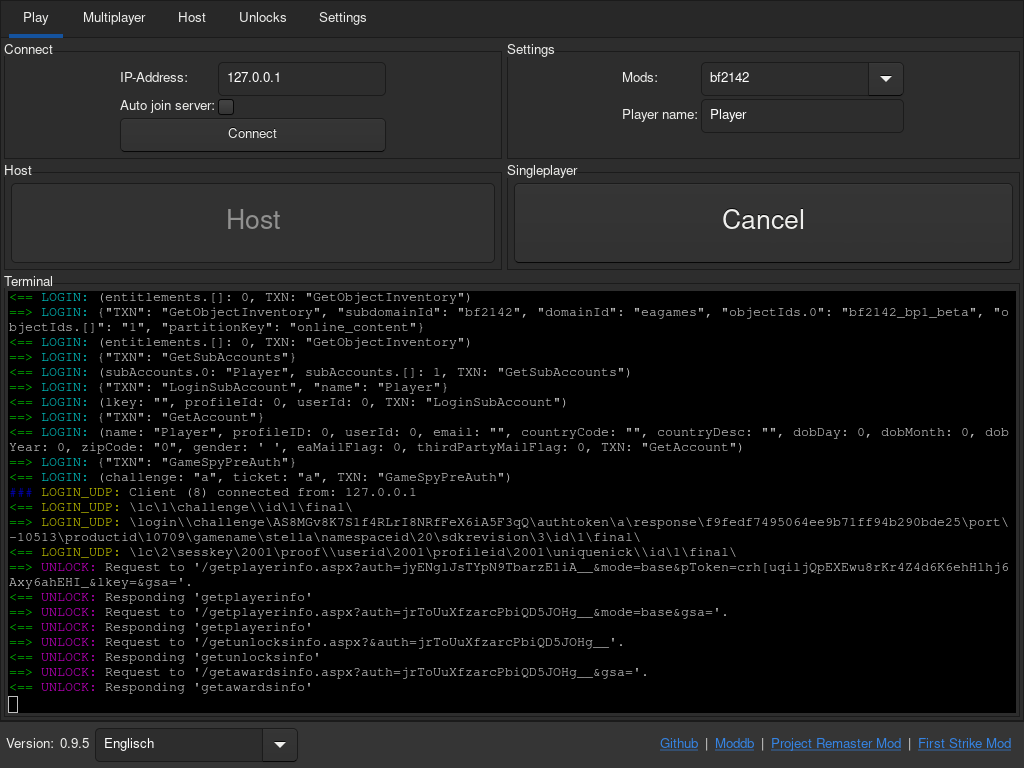
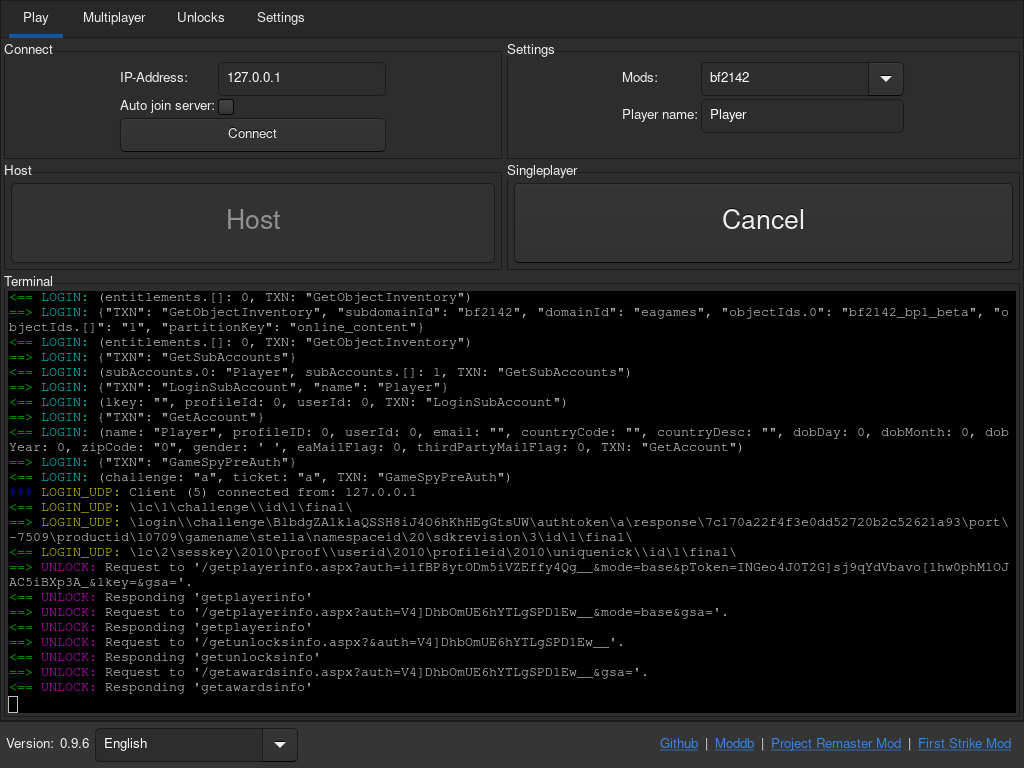
- Prepared version 0.9.6.

diff --git a/readme.md b/readme.md
@@ -10,8 +10,8 @@ Also the BF2142Unlocker has a multiplayer feature withit you can create accounts
 - Battlefield 2142 updated to version 1.51.
 
 ## Downloads
-- [Download BF2142 Unlocker v0.9.5 (Windows)](https://github.com/Dankr4d/BF2142Unlocker/releases/download/v0.9.5/BF2142Unlocker_v0.9.5_win.zip)
-- [Download BF2142 Unlocker v0.9.5 (Linux)](https://github.com/Dankr4d/BF2142Unlocker/releases/download/v0.9.5/BF2142Unlocker_v0.9.5_linux.zip)
+- [Download BF2142 Unlocker v0.9.6 (Windows)](https://github.com/Dankr4d/BF2142Unlocker/releases/download/v0.9.6/BF2142Unlocker_v0.9.6_win.zip)
+- [Download BF2142 Unlocker v0.9.6 (Linux)](https://github.com/Dankr4d/BF2142Unlocker/releases/download/v0.9.6/BF2142Unlocker_v0.9.6_linux.zip)
 
 ## Instructions / How to play:
 - Start the BF2142Unlocker:
